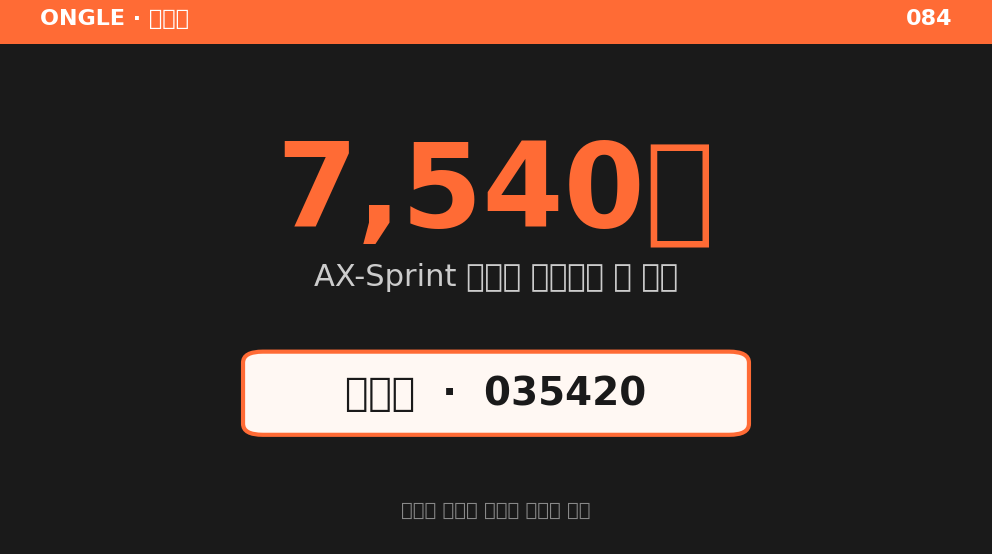
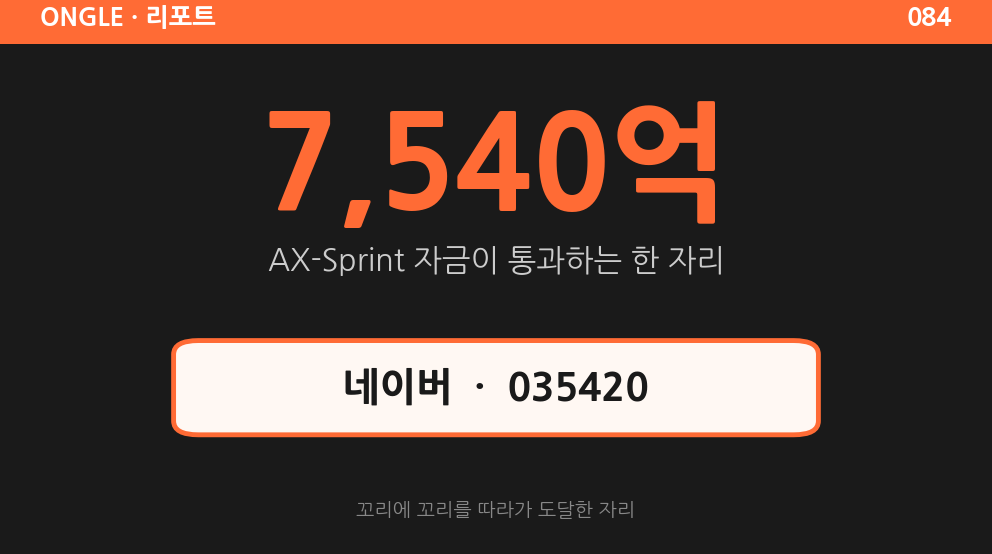
regen: index.html

diff --git a/index.html b/index.html
@@ -426,7 +426,7 @@
 </main>
 <footer>
   <img src="https://cornbee.github.io/ongle/assets/ongle/ongle_idle.png" alt="" class="footer-mascot" loading="lazy">
-  © 2026 ONGLE · 마지막 업데이트: 2026-05-19 00:26
+  © 2026 ONGLE · 마지막 업데이트: 2026-05-19 06:56
 </footer>
 <script>
   const buttons = document.querySelectorAll('.cat-btn');
